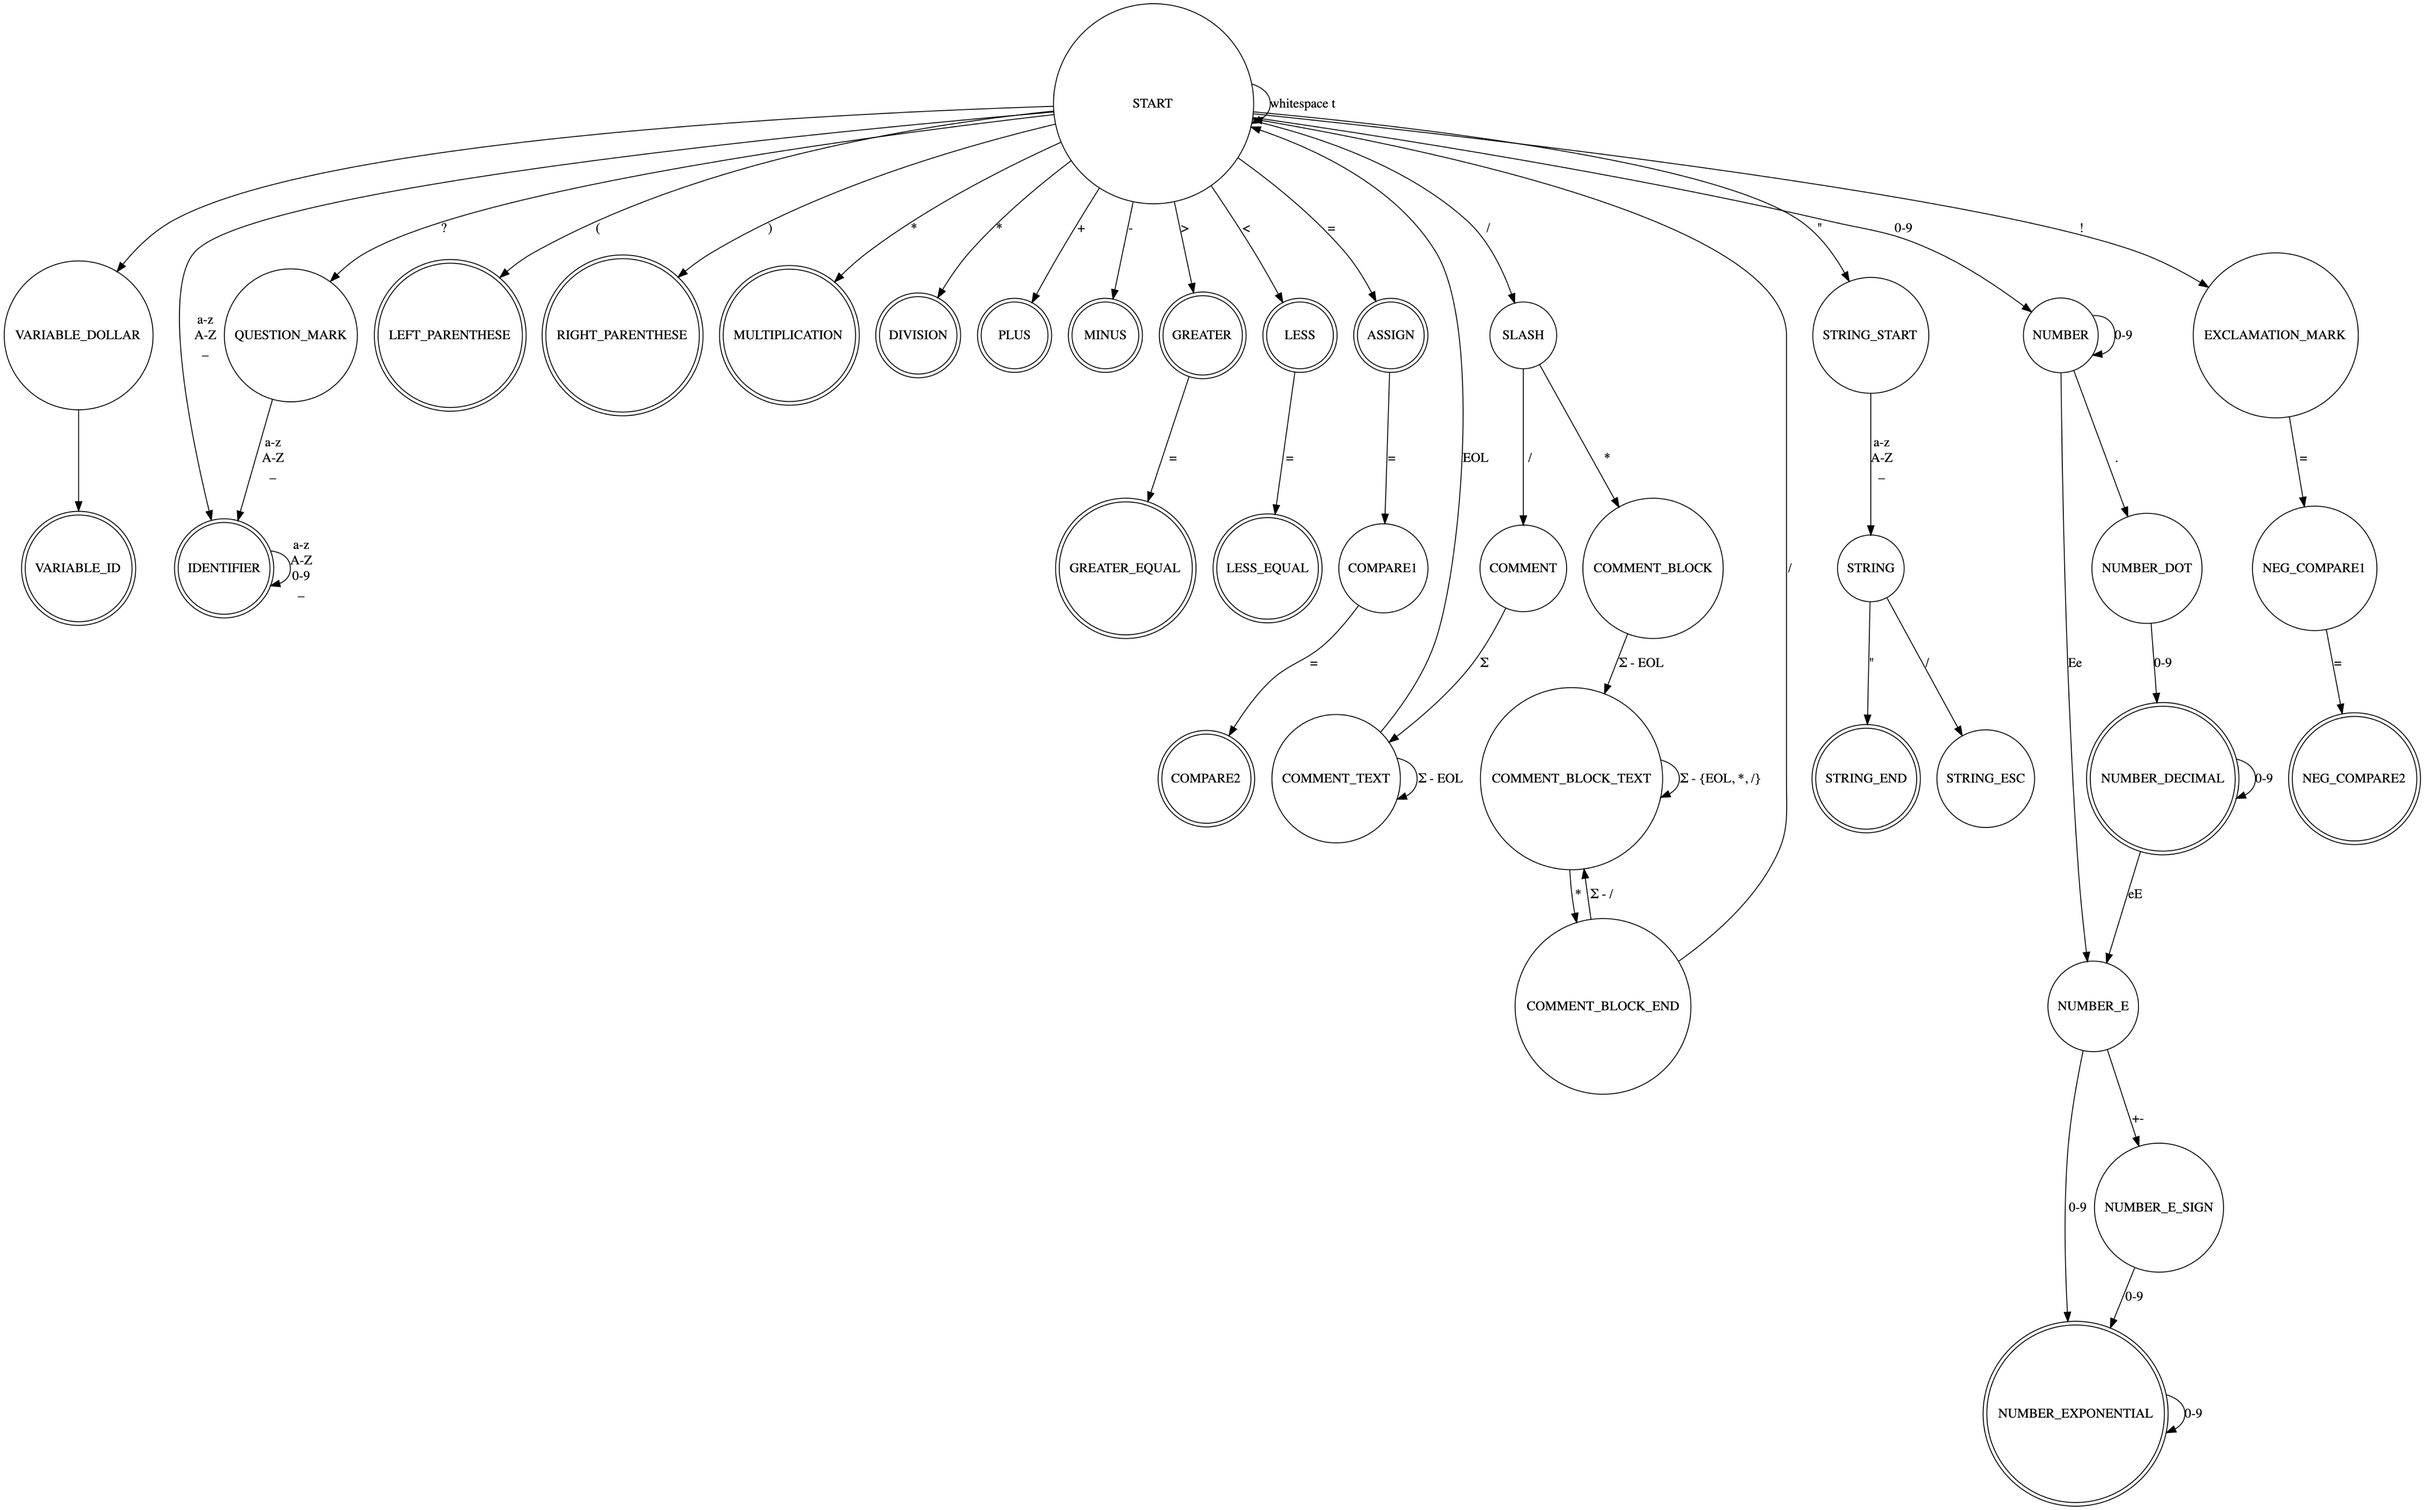
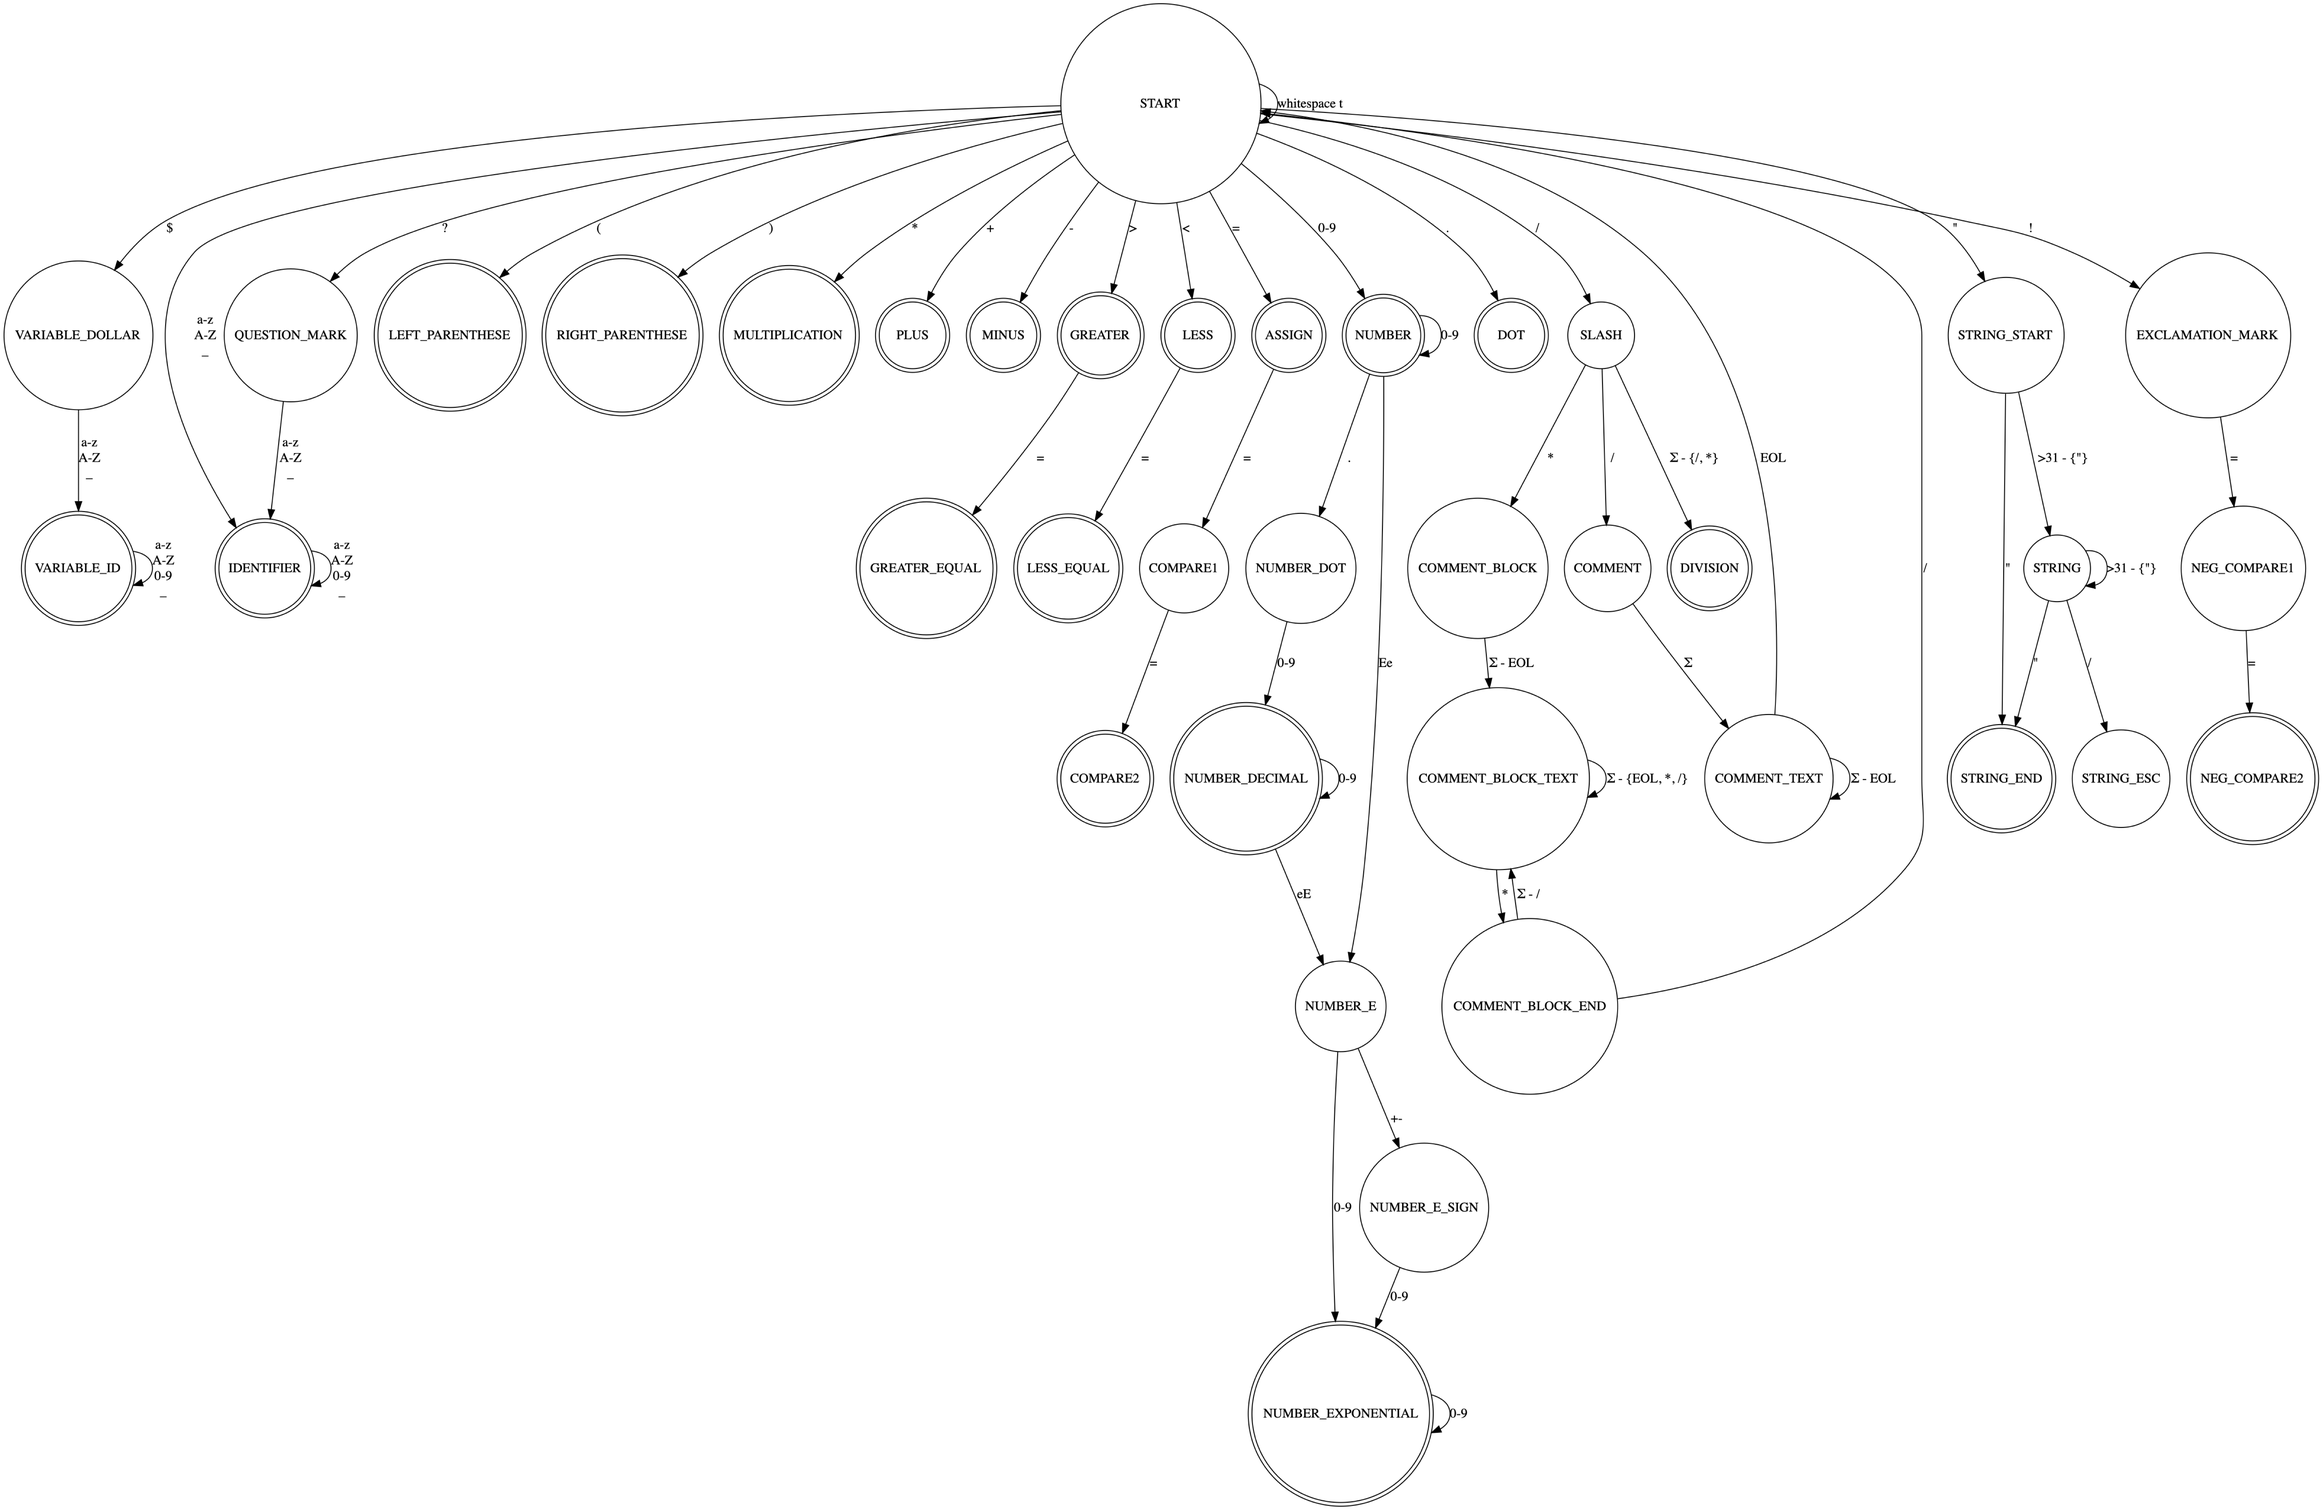
feat: function for getting next automaton state implemented

diff --git a/src/scanner.c b/src/scanner.c
@@ -1,1 +1,143 @@
 #include "scanner.h"
+#include "ctype.h"
+
+AutomatonState AutomatonNext(AutomatonState current, char input){
+    switch (current) {
+        case START:
+            if (input == ' ' || input == '\t' || input == '\n'){return START;}
+            if (input == '$'){return VARIABLE_DOLLAR;}
+            if (isalpha(input) || input == '_'){return IDENTIFIER;}
+            if (input == '?'){return QUESTION_MARK;}
+            if (input == '('){return LEFT_PARENTHESE;}
+            if (input == ')'){return RIGHT_PARENTHESE;}
+            if (input == '*'){return MULTIPLICATION;}
+            if (input == '+'){return PLUS;}
+            if(input == '-'){return MINUS;}
+            if (input == '>'){return GREATER;}
+            if (input == '<'){return LESS;}
+            if (input =='='){return ASSIGN;}
+            if (input =='/'){return SLASH;}
+            if (input =='"'){return STRING_START;}
+            if (isnumber(input)){return NUMBER;}
+            if (input == '!'){return EXCLAMATION_MARK;}
+
+            return ERROR;
+
+        case IDENTIFIER:
+            if (isnumber(input) || isalpha(input) || input == '_'){return IDENTIFIER;}
+            return ERROR;
+
+        case QUESTION_MARK:
+            if (isnumber(input) || isalpha(input) || input == '_'){return IDENTIFIER;}
+            return ERROR;
+
+        case STRING_START:
+            if (input == '"'){return STRING_END;}
+            if (input > 31){return IDENTIFIER;}
+            //TODO escaping sequences
+            return ERROR;
+
+        case NUMBER:
+            if (isnumber(input)){return NUMBER;}
+            if (input == '.'){return NUMBER_DOT;}
+            if (input == 'e' || input == 'E'){return NUMBER_E;}
+            return ERROR;
+
+        case NUMBER_DOT:
+            if (isnumber(input)){return NUMBER_DECIMAL;}
+            return ERROR;
+
+        case NUMBER_DECIMAL:
+            if (isnumber(input)){return NUMBER_DECIMAL;}
+            if (input == 'e' || input == 'E'){return NUMBER_E;}
+            return ERROR;
+
+        case NUMBER_E:
+            if (isnumber(input)){return NUMBER_EXPONENTIAL;}
+            if (input == '+' || input == '-'){return NUMBER_E_SIGN;}
+            return ERROR;
+
+        case NUMBER_E_SIGN:
+            if (isnumber(input)){return NUMBER_EXPONENTIAL;}
+            return ERROR;
+
+        case NUMBER_EXPONENTIAL:
+            if (isnumber(input)){return NUMBER_EXPONENTIAL;}
+            return ERROR;
+
+        case STRING:
+            if (input == '"'){return STRING_END;}
+            if (input > 31){return STRING;}
+            //TODO escape sequence
+            return ERROR;
+
+        case STRING_END:
+            return ERROR;
+
+//        case STRING_ESC:
+//            return ERROR;
+
+        case VARIABLE_DOLLAR:
+            if (isalpha(input) || input == '_'){return VARIABLE_ID;}
+            return ERROR;
+
+        case VARIABLE_ID:
+            if (isnumber(input) || isalpha(input) || input == '_'){return VARIABLE_ID;}
+            return ERROR;
+
+        case SLASH:
+            if (input == '*'){return COMMENT_BLOCK;}
+            if (input == '/'){return COMMENT;}
+            return DIVISION;
+
+        case COMMENT:
+            //TODO maybe exclude EOL
+            return COMMENT_TEXT;
+
+        case COMMENT_TEXT:
+            if (input == '\n'){return START;}
+            return COMMENT_TEXT;
+
+        case COMMENT_BLOCK:
+            if (input == '*'){return COMMENT_BLOCK_TEXT;}
+            return ERROR;
+
+        case COMMENT_BLOCK_TEXT:
+            if (input == '*'){return COMMENT_BLOCK_END;}
+            return COMMENT_BLOCK_TEXT;
+
+        case COMMENT_BLOCK_END:
+            if (input == '/'){return START;}
+            return COMMENT_BLOCK_TEXT;
+
+        case LESS:
+            if (input == '='){return LESS_EQUAL;}
+            return ERROR;
+
+        case GREATER:
+            if (input == '='){return GREATER_EQUAL;};
+            return ERROR;
+
+        case ASSIGN:
+            if (input == '='){return COMPARE1;}
+            return ERROR;
+
+        case COMPARE1:
+            if (input == '='){return COMPARE2;}
+            return ERROR;
+
+        case EXCLAMATION_MARK:
+            if (input == '='){return NEG_COMPARE1;}
+            return NEG_COMPARE1;
+
+        case NEG_COMPARE1:
+            if (input == '='){return NEG_COMPARE2;}
+            return ERROR;
+
+        default:
+            return ERROR;
+    }
+
+}
+
+

diff --git a/src/scanner.h b/src/scanner.h
@@ -2,29 +2,56 @@
  * automata states
  */
 #include "utils.h"
+
 typedef enum{
     START,
     IDENTIFIER,
     QUESTION_MARK,
     LEFT_PARENTHESE,
     RIGHT_PARENTHESE,
-    STRING_START,
+
+    //States for processing numbers
     NUMBER,
     NUMBER_DOT,
     NUMBER_DECIMAL,
     NUMBER_E,
     NUMBER_E_SIGN,
     NUMBER_EXPONENTIAL,
+
+    //States for processing strings
+    STRING_START,
     STRING,
     STRING_END,
     STRING_ESC,
+
     VARIABLE_DOLLAR,
     VARIABLE_ID,
+
+    //States for processing comments
     SLASH,
     COMMENT,
     COMMENT_TEXT,
     COMMENT_BLOCK,
     COMMENT_BLOCK_END,
-    COMMENT_BLOCK_TEXT
-}AutomataState;
+    COMMENT_BLOCK_TEXT,
+    ERROR,
+
+    //States to process operations
+    MULTIPLICATION,
+    DIVISION,
+    PLUS,
+    MINUS,
+    GREATER,
+    LESS,
+    GREATER_EQUAL,
+    LESS_EQUAL,
+    ASSIGN,
+    COMPARE1,
+    COMPARE2,
+    EXCLAMATION_MARK,
+    NEG_COMPARE1,
+    NEG_COMPARE2
+}AutomatonState;
+
+AutomatonState AutomatonNext(AutomatonState current, char input);
 
